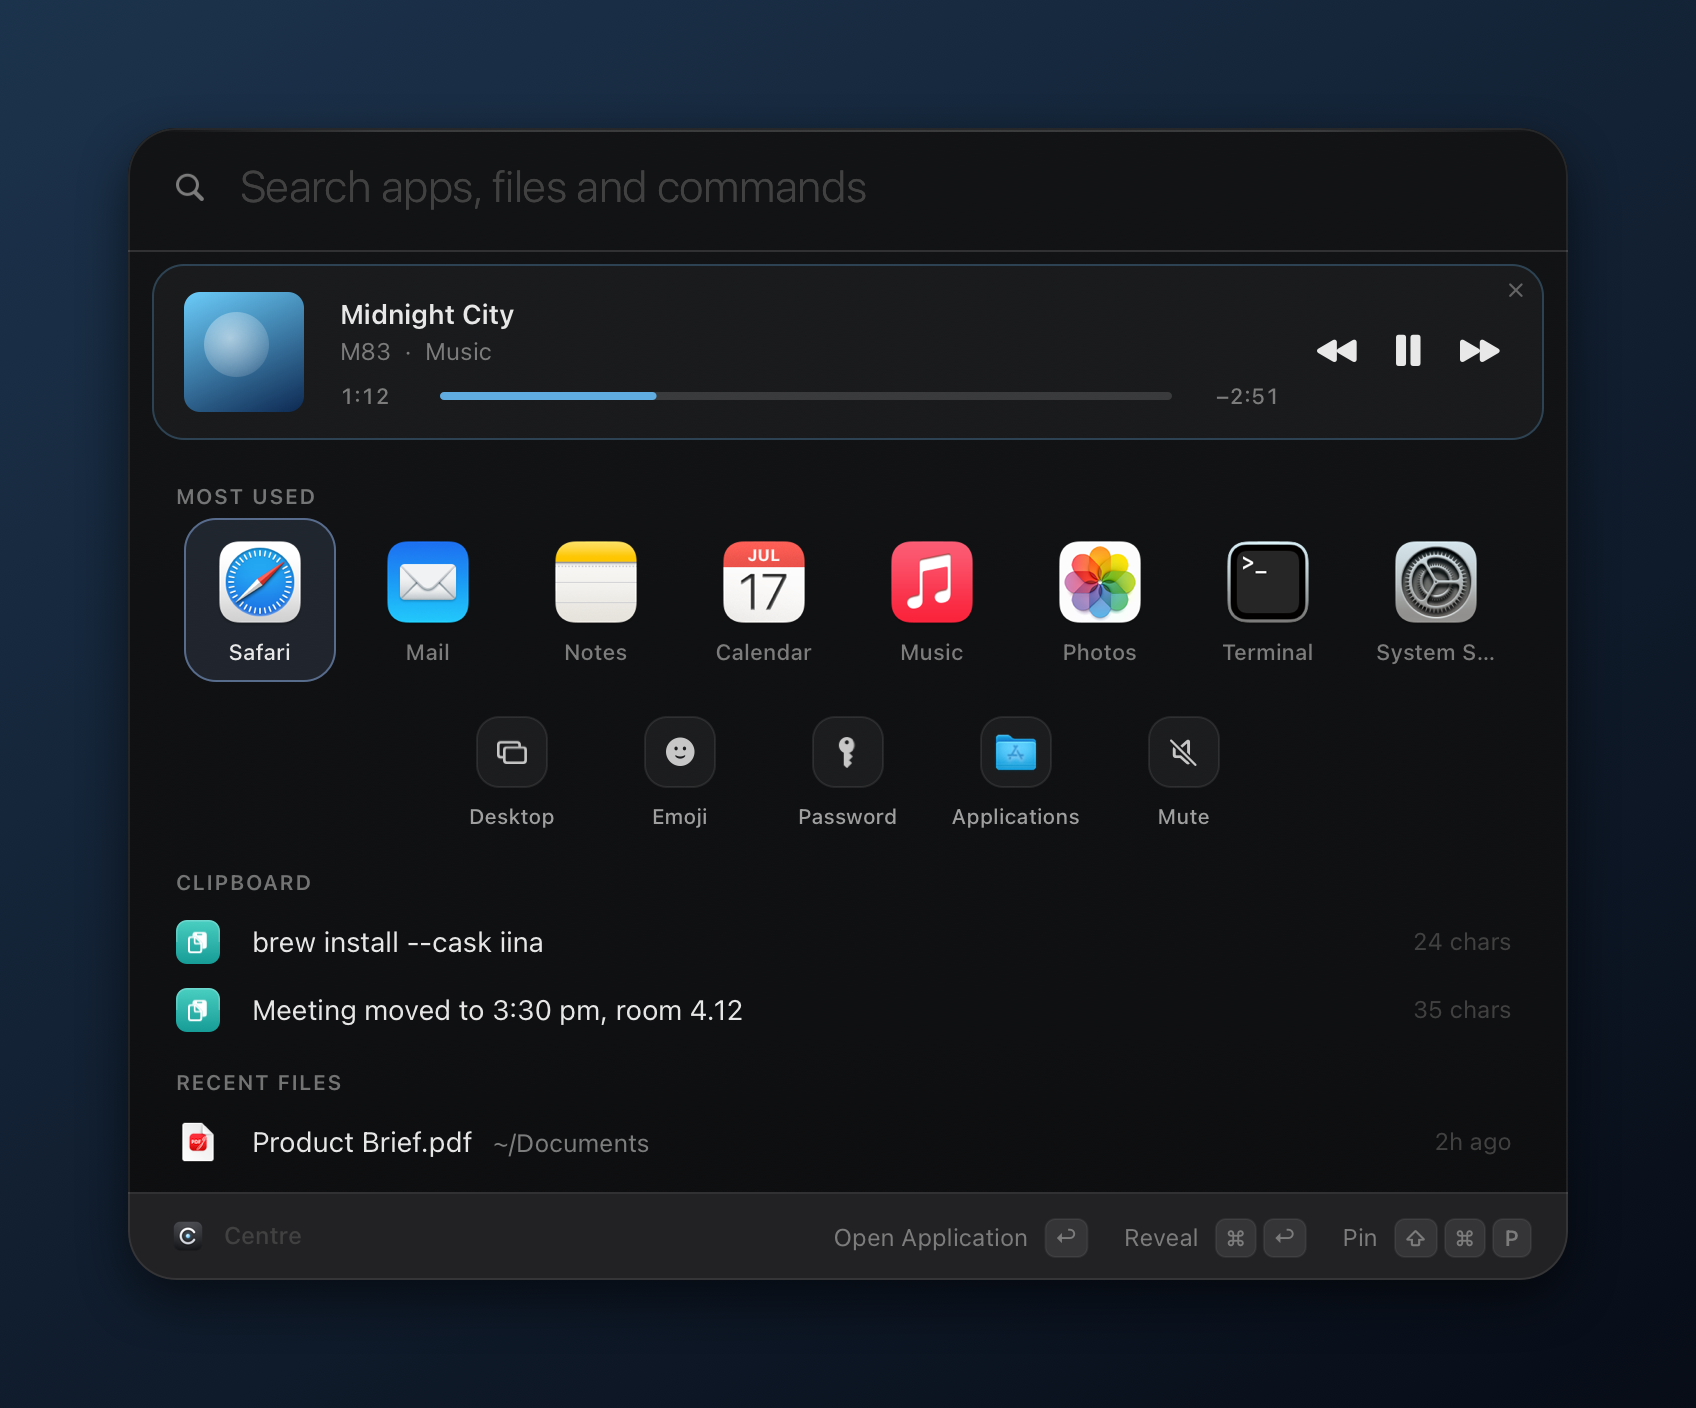
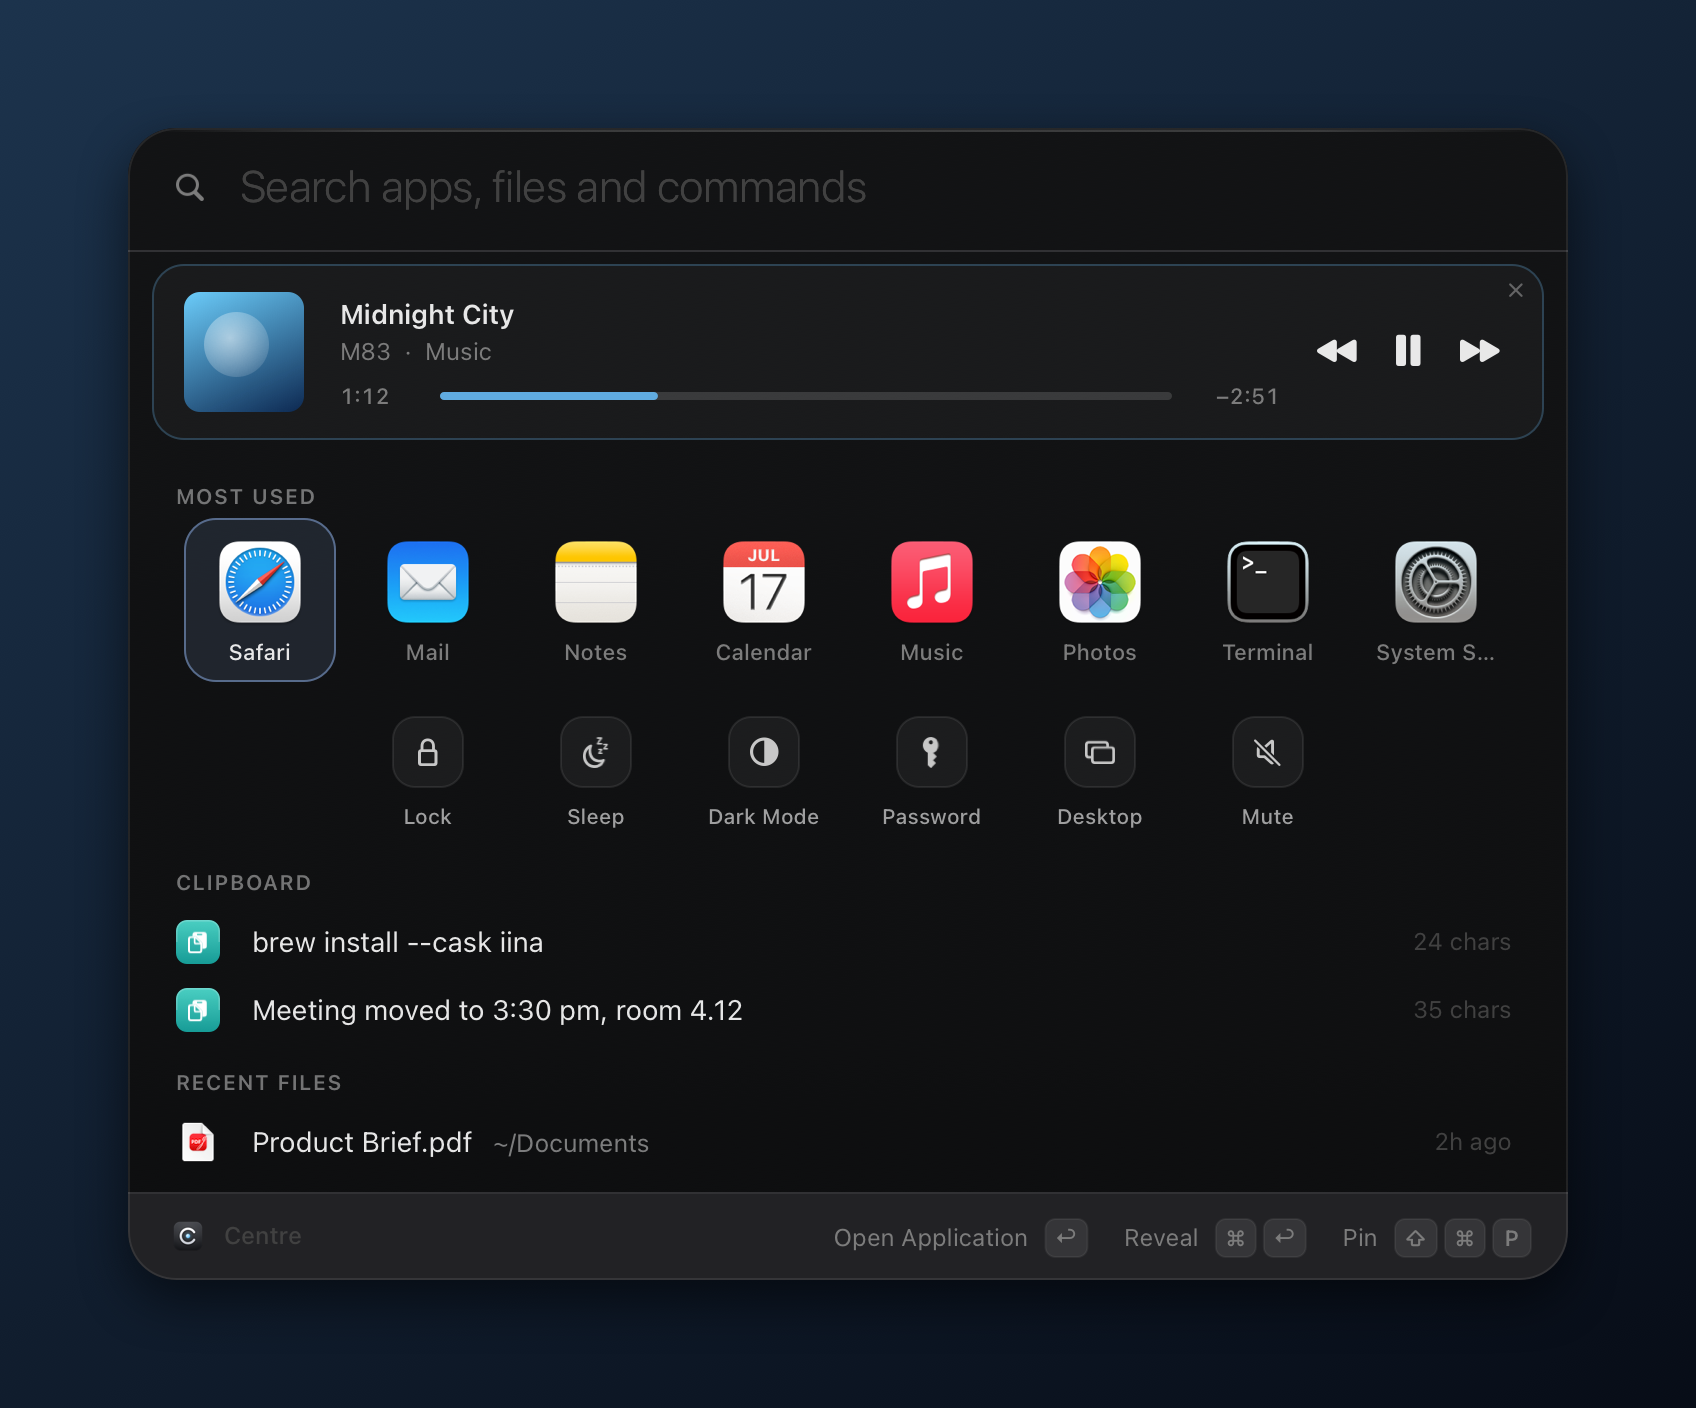
README: download badge, fresh screenshots, install and build sections
- Screenshots re-rendered with neutral defaults (default pins, taskbar on)
- docs/ holds only the images the README shows; ./centre shots keeps it that way

Claude-Session: https://claude.ai/code/session_018D9cJFZXgMvcC43rK4RLZH

Changed region(s): [[0.2812, 0.5, 0.7188, 0.5938]]

diff --git a/Sources/App+Snapshots.m b/Sources/App+Snapshots.m
@@ -234,6 +234,10 @@
     [self refreshWindowList];
     if (self.readmeMode) {   // neutral sample data so public screenshots show nothing personal
         self.notes = [NSMutableArray new]; self.shelf = [NSMutableArray new]; self.timers = nil;   // never your own notes or shelf
+        NSMutableDictionary *neutral = [self.config mutableCopy] ?: [NSMutableDictionary new];   // default pins and switches, in memory only
+        for (NSString *k in @[@"pinned", @"hotkey", @"taskbarLabels", @"taskbarGroup", @"taskbarAutoHide", @"taskbarSize", @"taskbarPosition", @"taskbarDock"]) [neutral removeObjectForKey:k];
+        neutral[@"taskbarEnabled"] = @YES; neutral[@"taskbarFloating"] = @YES; neutral[@"ambientLine"] = @YES;
+        self.config = neutral;
         [self.clips addObjectsFromArray:@[@"brew install --cask iina", @"Meeting moved to 3:30 pm, room 4.12",
                                           @"https://developer.apple.com/design/human-interface-guidelines", @"git commit -m \"Tighten launcher spacing\""]];
         NSString *docs = [NSHomeDirectory() stringByAppendingPathComponent:@"Documents"];

diff --git a/README.md b/README.md
@@ -5,8 +5,14 @@
 <h1 align="center">Centre</h1>
 
 <p align="center">
-  A native macOS launcher and taskbar. One keystroke from anything.<br>
-  <sub>Objective-C · AppKit · no Xcode · no dependencies · no telemetry</sub>
+  A native macOS launcher and taskbar. One keystroke from anything.
+</p>
+
+<p align="center">
+  <a href="https://github.com/Yyas99/Centre/releases/latest"><img src="https://img.shields.io/github/v/release/Yyas99/Centre?style=flat-square&label=download&color=5ab8f5" alt="Download the latest release"></a>
+  <img src="https://img.shields.io/badge/macOS-13%2B-1d1f23?style=flat-square&logo=apple&logoColor=white" alt="macOS 13 or later">
+  <img src="https://img.shields.io/badge/Objective--C-AppKit-2b2d31?style=flat-square" alt="Objective-C and AppKit">
+  <img src="https://img.shields.io/badge/telemetry-none-2b2d31?style=flat-square" alt="No telemetry">
 </p>
 
 <p align="center">
@@ -17,9 +23,9 @@
 
 - **Search** apps, settings, commands, files, open browser tabs and clipboard history, ranked by what you use at this hour.
 - **Home** adapts to where you came from: a browser's other tabs, a terminal's last commands, actions for selected text.
-- **Status line, notes and shelf:** time, next event, battery; `note …` keeps a line on Home; drop files onto the shelf.
-- **Tools:** calculator, units, dictionary, timers, passwords, text transforms, time zones, emoji, window snapping.
-- **Taskbar (optional):** one button per window, music controls, tray and clock; keeps windows clear of the bar.
+- **Status line, notes and shelf:** time, next event and battery at a glance; `note …` keeps a line on Home; drop files onto the shelf.
+- **Tools:** calculator, units, dictionary, timers, passwords, text transforms, time zones, emoji and window snapping.
+- **Taskbar (optional):** one button per window, music controls, tray and clock, with windows kept clear of the bar.
 
 <table>
   <tr>
@@ -30,13 +36,21 @@
     <td align="center"><sub>Opened from Safari: status line, a note, that window's tabs</sub></td>
     <td align="center"><sub><code>tab guide</code> jumps to any open tab</sub></td>
   </tr>
+  <tr>
+    <td width="50%"><img src="docs/home-selection.png" alt="Actions for selected text"></td>
+    <td width="50%"><img src="docs/settings-taskbar.png" alt="Settings"></td>
+  </tr>
+  <tr>
+    <td align="center"><sub>Select text anywhere, then open Centre</sub></td>
+    <td align="center"><sub>Eight pages of settings, no config files needed</sub></td>
+  </tr>
 </table>
 
 <p align="center">
   <img src="docs/taskbar-dark.png" width="900" alt="Centre's taskbar">
 </p>
 
-## Keys and prefixes
+## Keys
 
 | Input | Does |
 | --- | --- |
@@ -52,15 +66,20 @@
 2. The first time, macOS says it can't check Centre for malware, because it isn't notarised by Apple. Open **System Settings › Privacy & Security** and click **Open Anyway**.
 3. Turn off Spotlight's `⌘ Space` shortcut (System Settings › Keyboard › Keyboard Shortcuts › Spotlight), or choose another one in Centre.
 
-Centre checks for updates itself. **Settings › General › Updates** installs a new version in place, and only if it's signed by the same certificate, so your permissions carry over. To remove Centre, use **Settings › System › Uninstall**. Settings are kept in `~/Library/Application Support/Centre`.
+**Updates** install themselves from **Settings › General › Updates**. A new version is only accepted if it's signed by the same certificate, so your permissions carry over. **Uninstall** from **Settings › System**. Your settings are kept in `~/Library/Application Support/Centre`.
 
-No accounts or analytics. Centre goes online only to check GitHub for updates, fetch YouTube Music artwork, and look up your public IP when you run `info`. Clipboard history stays in memory.
+**Privacy:** no accounts and no analytics. Centre only goes online to check GitHub for updates, fetch YouTube Music artwork, and look up your public IP when you run `info`. Clipboard history stays in memory.
 
 ## Build from source
 
-You need macOS 13 or later and the Command Line Tools (`xcode-select --install`). Run `bash setup-signing.sh` once, then `./centre` to build and run. To make a release, bump `VERSION`, write `NOTES` and run `./centre release`, which writes the `.dmg` and the update `.zip` to `dist/`.
+You need macOS 13 or later and the Command Line Tools (`xcode-select --install`).
+
+```sh
+bash setup-signing.sh   # once: a private signing certificate, so rebuilds keep their permissions
+./centre                # build, self-test (66 checks) and run
+./centre release        # Centre-<VERSION>.dmg and the update .zip, in dist/
+```
 
 ## Credits
 
-Built by [Yyas99](https://github.com/Yyas99) with [Claude](https://claude.ai) (Anthropic).
-<br><sub>Screenshots are rendered by the app: <code>./centre shots</code></sub>
+Built by [Yyas99](https://github.com/Yyas99) with [Claude](https://claude.ai) (Anthropic). Screenshots are rendered by the app itself (`./centre shots`).
